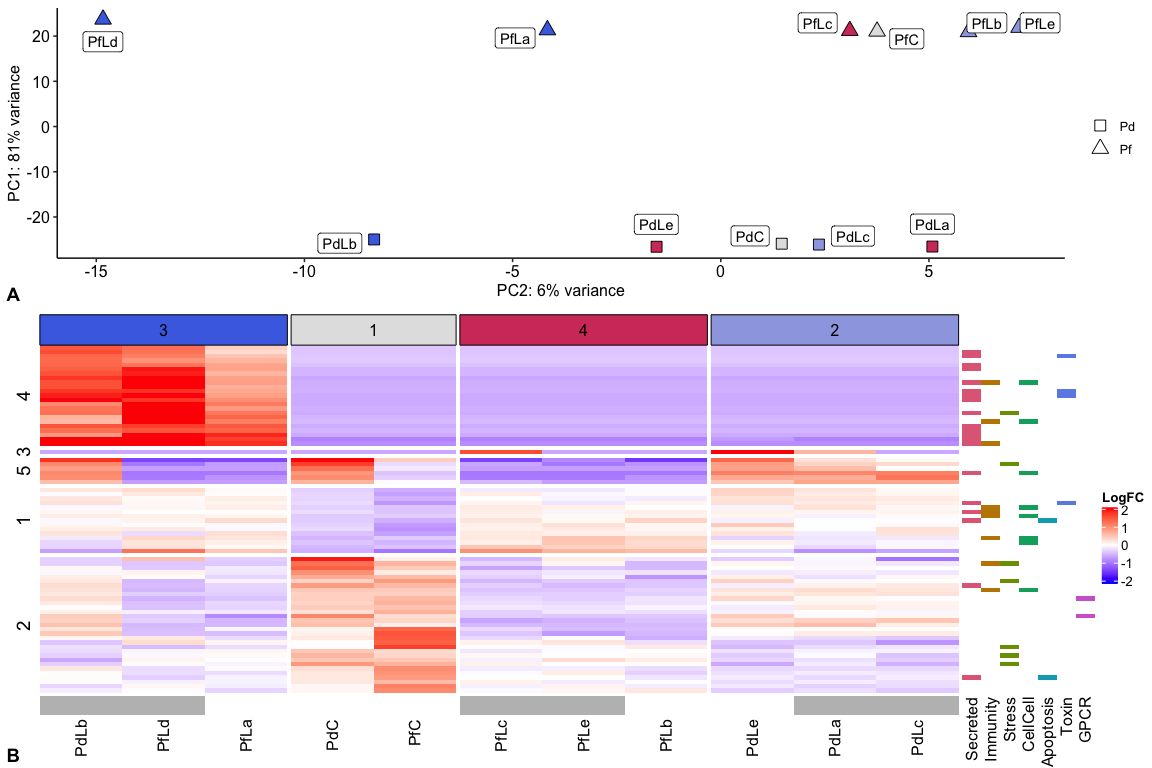
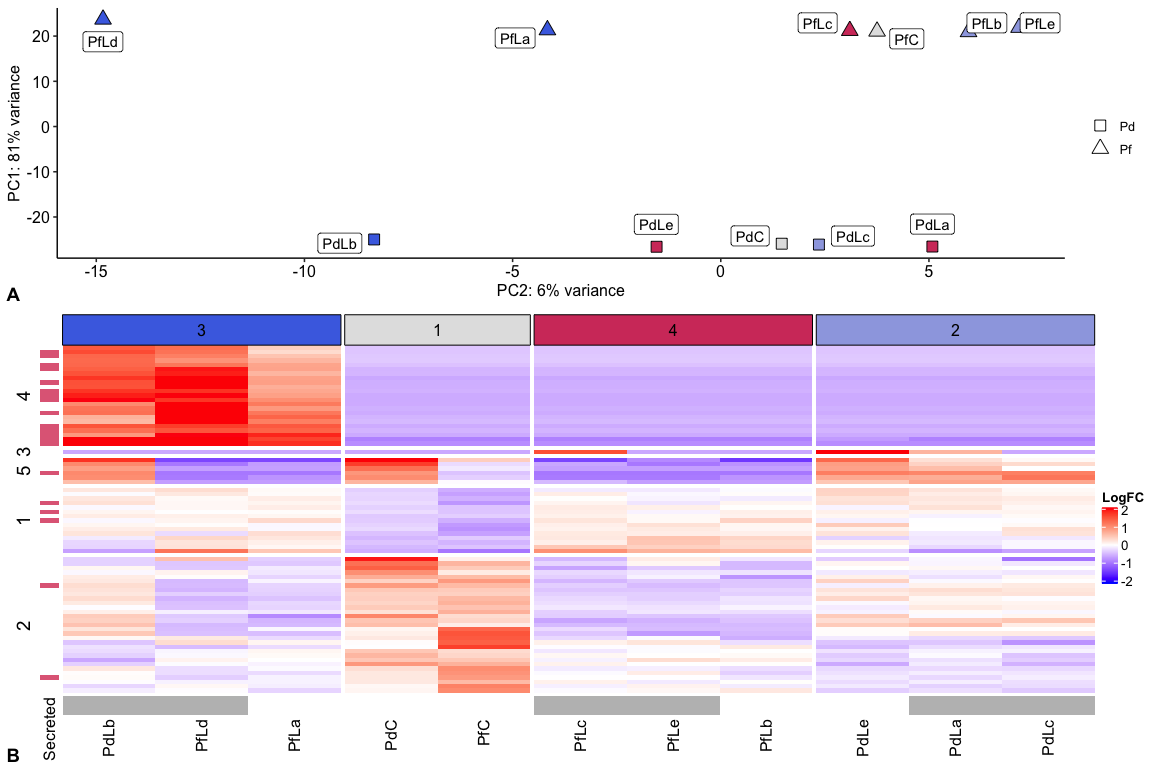
Simplify gene function RMd

diff --git a/05_gene_function.md b/05_gene_function.md
@@ -18,77 +18,12 @@ genuinely differentially expressed.
 
 ![](05_gene_function_files/figure-gfm/unnamed-chunk-3-1.png)<!-- -->
 
-## Function of genes in PCA clusters
+![](05_gene_function_files/figure-gfm/unnamed-chunk-4-1.png)<!-- -->
 
-Cluster 5 is expressed strongly in three samples and not expressed at
-all in others. This cluster aligns well with the PCA. This cluster is
-massively enriched in secreted proteins with 16 out of 23 having a
-Signal peptide.
-
-![](05_gene_function_files/figure-gfm/unnamed-chunk-5-1.png)<!-- -->
-
-    ## [1] 16
-
-Cluster 2 represents the opposite end of the PCA. It has a similar
-pattern except that three different samples are expressed in this case.
-Of the 10 proteins in this cluster four are involved in oxidative
-metabolism (homologues of COX1, CYB, COX3, COX2).
-
-![](05_gene_function_files/figure-gfm/unnamed-chunk-6-1.png)<!-- -->
-
-Most genes in cluster 1 are expressed in all samples but generally seem
-up in competition compared with control.
-
-![](05_gene_function_files/figure-gfm/unnamed-chunk-7-1.png)<!-- -->
-
-Cluster 4 contains genes with reduced expression in competition compared
-to controls.
-
-![](05_gene_function_files/figure-gfm/unnamed-chunk-8-1.png)<!-- -->
-
-Genes in cluster 3 don’t fit into any of the above categories. In
-general these genes have divergent expression between the two controls.
-Although called as differentially expressed they have borderline
-p-values.
-
-![](05_gene_function_files/figure-gfm/unnamed-chunk-9-1.png)<!-- -->
-
-## GO Term Enrichment Analysis
-
-Using GO terms obtained from Swissprot we performed a GO enrichment
-analysis in two ways;
-
-1.  Using the entire set of differentially expressed genes at the target
-    set and all quantifiable clusters as the background
-2.  Separately for each of the five heatmap row clusters
-
-At a significance threshold of `p<0.01` we found 8 enriched GO terms (4
-in BP, 2 in MF, 2 in CC) using all DEG as the target. By splitting
-datasets according to heatmap rows this was increased to 14 enriched
-terms (6 BP, 4MF, 4 CC). These enriched GO terms are driven by a
-relatively small number of genes (11) with many GO terms forming part of
-the same (or similar) gene annotation.
-
-Aside from GO terms we can also examine enrichment for basic attributes.
-This reveals that Cluster 5 is massively enriched for secreted proteins
-(via SignalP).
-
-![](05_gene_function_files/figure-gfm/unnamed-chunk-14-1.png)<!-- -->
-
-Attempts to find patterns in Kegg Orthology (KO) were fruitless as all
-annotated proteins have unique values.
-
-    ## # A tibble: 25 x 3
-    ##    Kegg              proteins                          count
-    ##    <chr>             <chr>                             <int>
-    ##  1 <NA>              Allene oxide synthase-lipoxygena…    59
-    ##  2 KEGG:cfa:403812`… Histamine H2 receptor (H2R) (HH2…     2
-    ##  3 KEGG:hsa:83872`K… Hemicentin-1 (Fibulin-6) (FIBL-6…     2
-    ##  4 KEGG:aag:COX3`KO… Cytochrome c oxidase subunit 3 (…     1
-    ##  5 KEGG:ame:406088   Vitellogenin                          1
-    ##  6 KEGG:bsu:BSU3007… Glycine betaine transporter OpuD      1
-    ##  7 KEGG:bta:537692   Metallo-beta-lactamase domain-co…     1
-    ##  8 KEGG:dre:393420   UPF0696 protein C11orf68 homolog      1
-    ##  9 KEGG:dse:CYTB`KO… Cytochrome b (Complex III subuni…     1
-    ## 10 KEGG:dya:COX1`KO… Cytochrome c oxidase subunit 1 (…     1
-    ## # … with 15 more rows
+    ## # A tibble: 4 x 2
+    ##   evidence_level count
+    ##            <dbl> <int>
+    ## 1              0    47
+    ## 2              1     9
+    ## 3              2    15
+    ## 4              3     5
